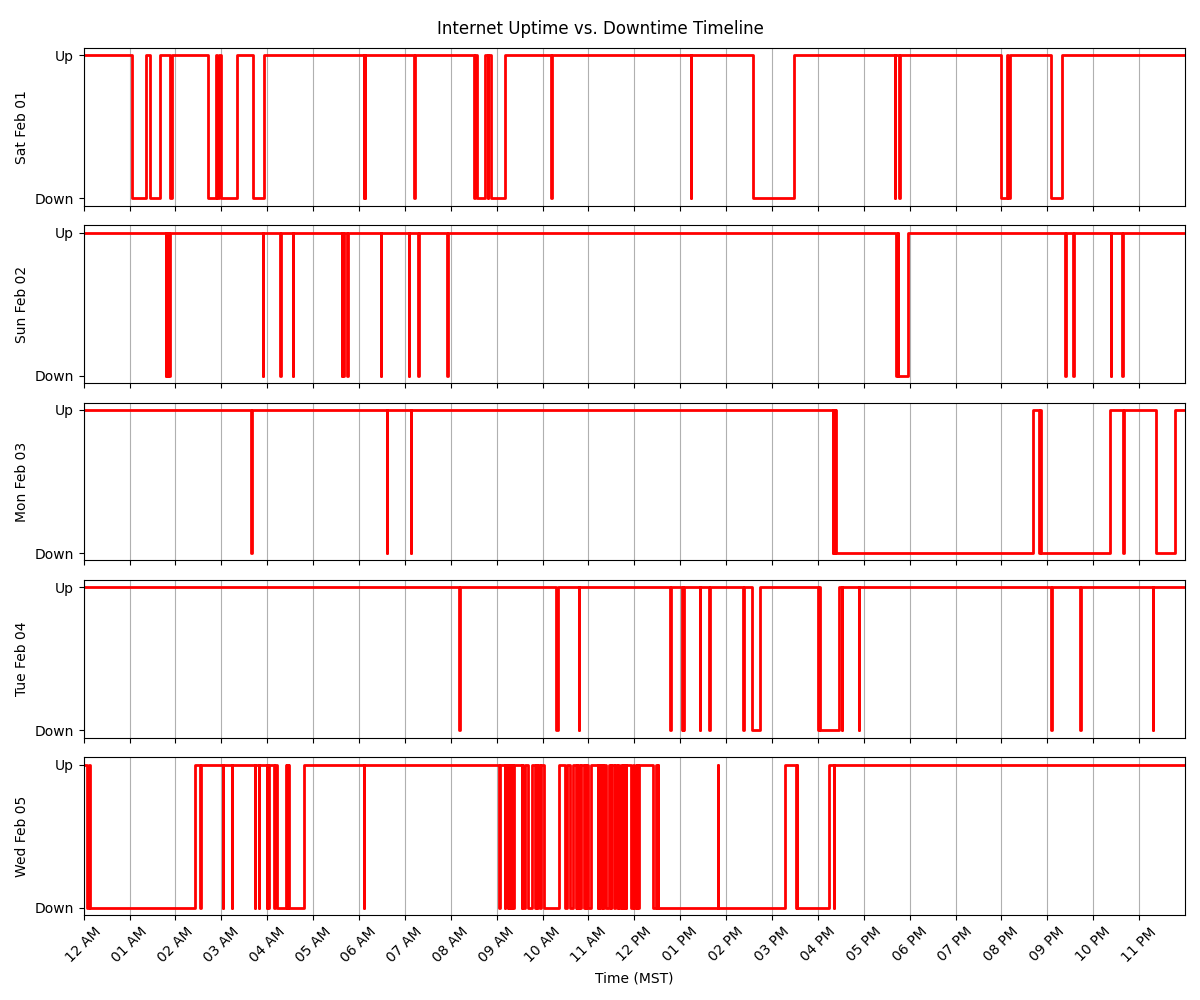
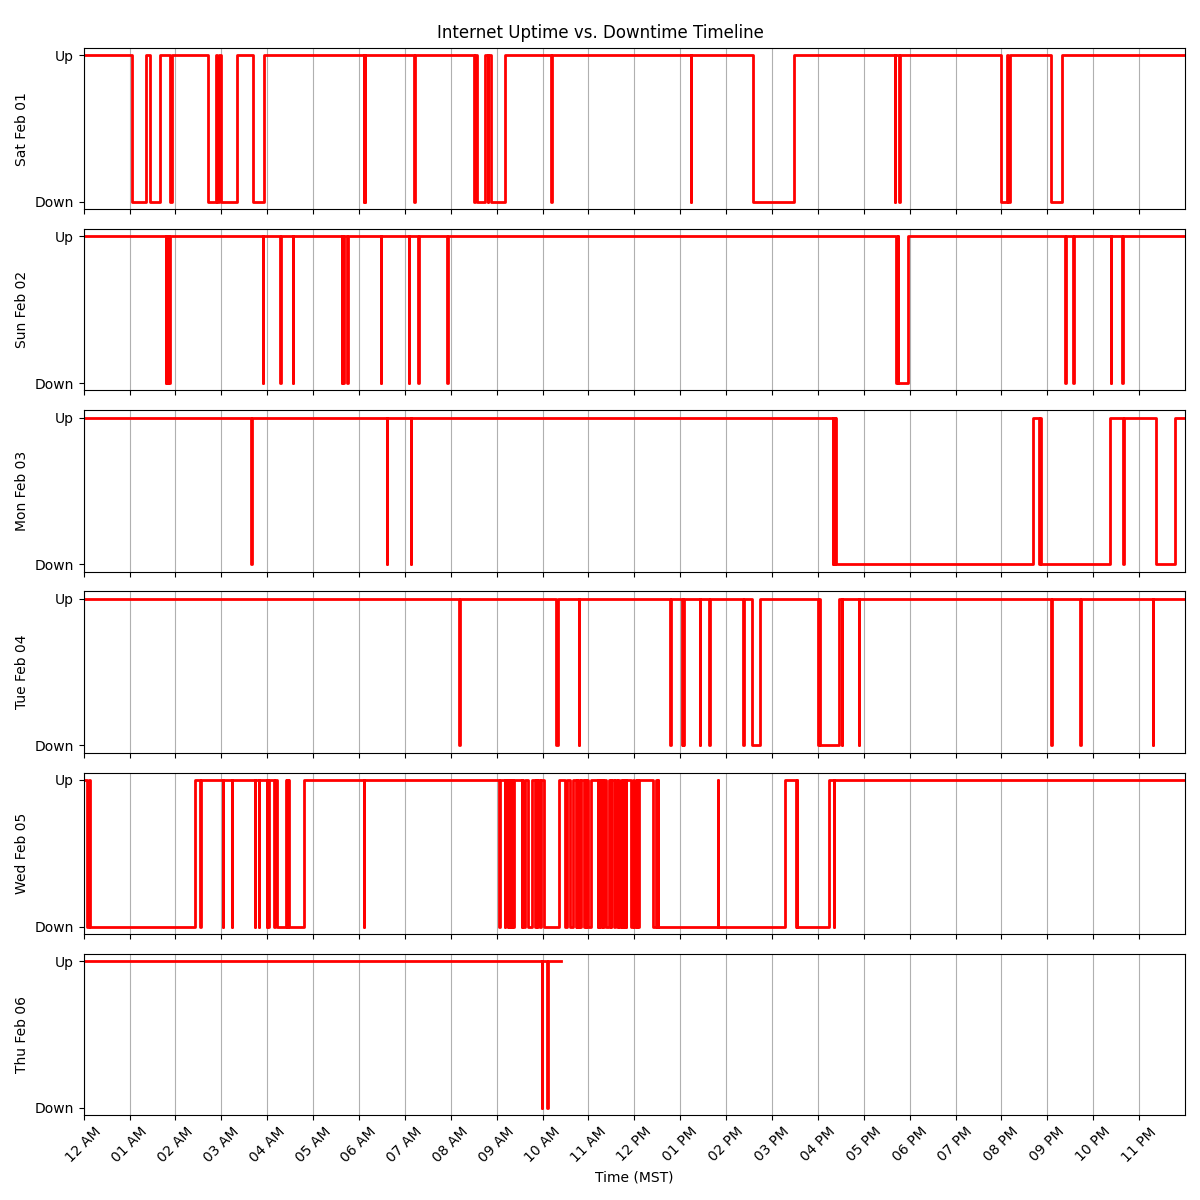
Stops continuity at the current time.

diff --git a/main.py b/main.py
@@ -53,6 +53,8 @@ def generate_timeline(events):
     if not events:
         return
 
+    now = datetime.datetime.now(TIMEZONE).time()  # Get current time
+
     # Organize events by day
     daily_events = {}
     for t, s in events:
@@ -62,9 +64,10 @@ def generate_timeline(events):
             daily_events[date] = [(datetime.time(0, 0), 1)]  # Ensure continuity at start of day
         daily_events[date].append((time_only, s))
 
-    # Ensure continuity at end of day
+    # Ensure continuity at end of day, but stop at current time for today
     for date in daily_events:
-        daily_events[date].append((datetime.time(23, 59, 59), daily_events[date][-1][1]))
+        end_time = now if date == datetime.datetime.now(TIMEZONE).date() else datetime.time(23, 59, 59)
+        daily_events[date].append((end_time, daily_events[date][-1][1]))
 
     # Sort days chronologically
     sorted_dates = sorted(daily_events.keys())
